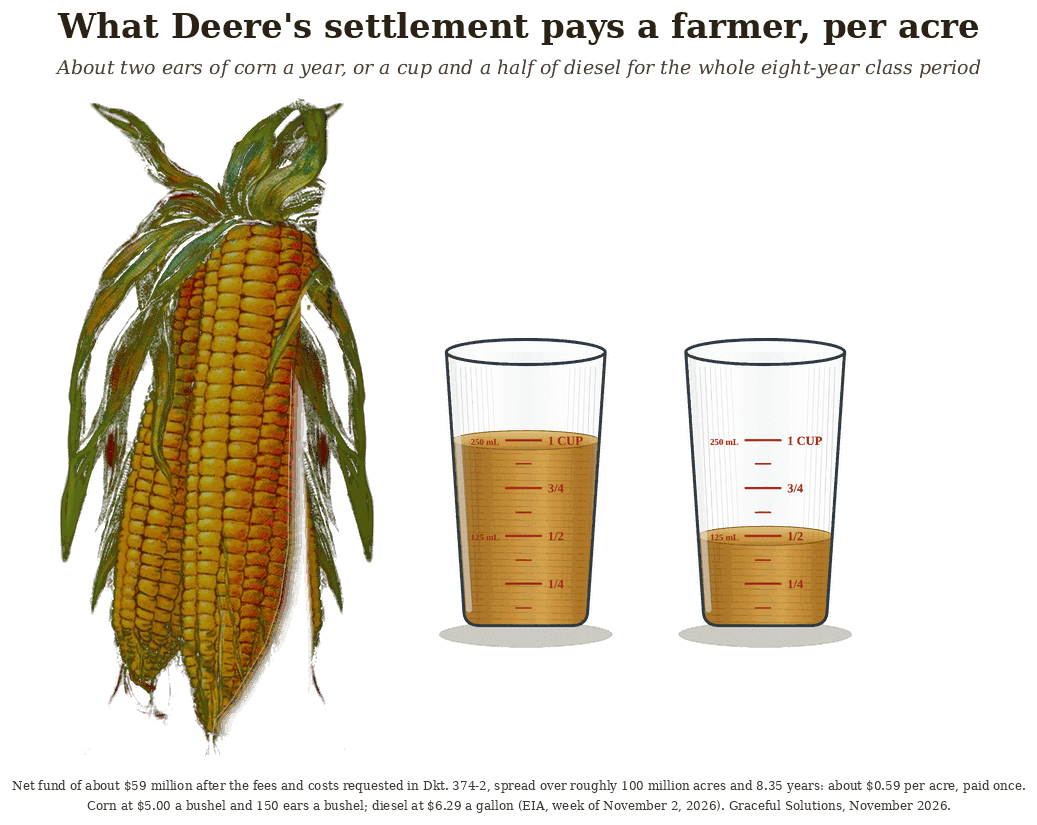
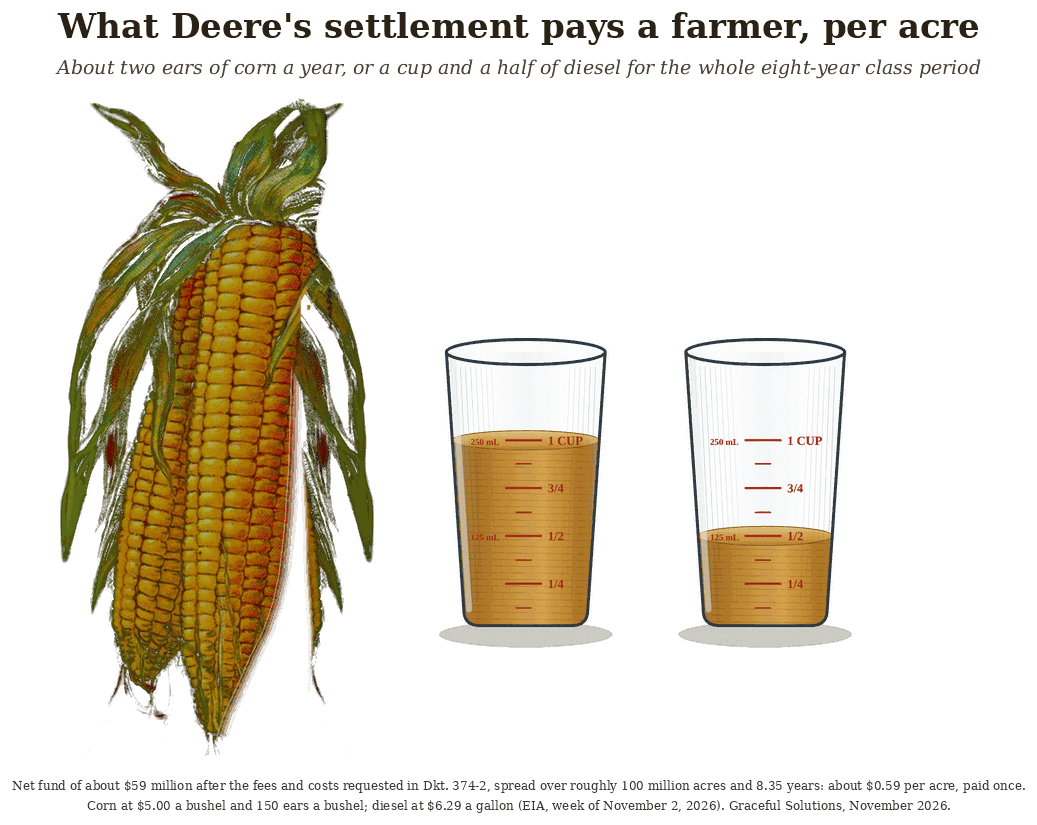
Clean the lower right edge of the settlement graphic
Claude-Session: https://claude.ai/code/session_01GY8VhWdbCkWCUjRCgETHg6

Changed region(s): [[0.1851, 0.4545, 0.3086, 0.9091], [0.1234, 0.7576, 0.1851, 0.8485], [0.0926, 0.5758, 0.1234, 0.6667]]

diff --git a/index.html b/index.html
@@ -15,7 +15,7 @@ small{color:#666}
 <h1>Ag Right to Repair weekly graphics</h1>
 <p>Charts used in the weekly Ag Right to Repair email from Willie Cade, Graceful Solutions LLC. Each file is dated by the Sunday of the week it was first sent.</p>
 <ul>
-<li><a href="2026-11-08-two-ears-cup-and-a-half.png">2026-11-08-two-ears-cup-and-a-half.png</a><br><small>What Deere's settlement pays a farmer, per acre: about two ears of corn a year, or a cup and a half of diesel for the whole eight-year class period. Net fund of about $59 million after the fees and costs requested in Dkt. 374-2, over roughly 100 million acres and 8.35 years. Corn at $5.00 a bushel and 150 ears a bushel; diesel at $6.29 a gallon (EIA, week of November 2, 2026). Corn after a painting by Willie Cade.</small></li>
+<li><a href="2026-11-08-two-ears-cup-and-a-half.png">2026-11-08-two-ears-cup-and-a-half.png</a><br><small>What Deere's settlement pays a farmer, per acre: about two ears of corn a year, or a cup and a half of diesel for the whole eight-year class period. Net fund of about $59 million after the fees and costs requested in Dkt. 374-2, over roughly 100 million acres and 8.35 years. Corn at $5.00 a bushel and 150 ears a bushel; diesel at $6.29 a gallon (EIA, week of November 2, 2026).</small></li>
 <li><a href="2026-11-08-combine-price-vs-inflation.png">2026-11-08-combine-price-vs-inflation.png</a><br><small>John Deere flagship combine: list price vs. general inflation, 2000 to 2025. The 2000 price of $162,500 grown at CPI-U would be about $304,000 in 2025; the flagship lists at $1,350,000. Sources: Combine Prices 2000 to 2025 dataset (verified paper, 2026) and BLS CPI-U annual averages.</small></li>
 <li><a href="2026-11-01-flagship-combine-price.png">2026-11-01-flagship-combine-price.png</a><br><small>Revised Flagship Combine Price, Two-Segment Linear Regression, 2000 to 2025. John Deere flagship combine list prices, 9750 STS to X9 1100. Source: Combine Prices 2000 to 2025 dataset, v1.2.</small></li>
 <li><a href="2026-10-25-repairs-vs-diesel.png">2026-10-25-repairs-vs-diesel.png</a><br><small>Farm Repairs Versus Diesel, per Acre, United States, 2016 to 2025, with a 2026 estimate. USDA NASS and EIA data. Version 4.0.</small></li>
